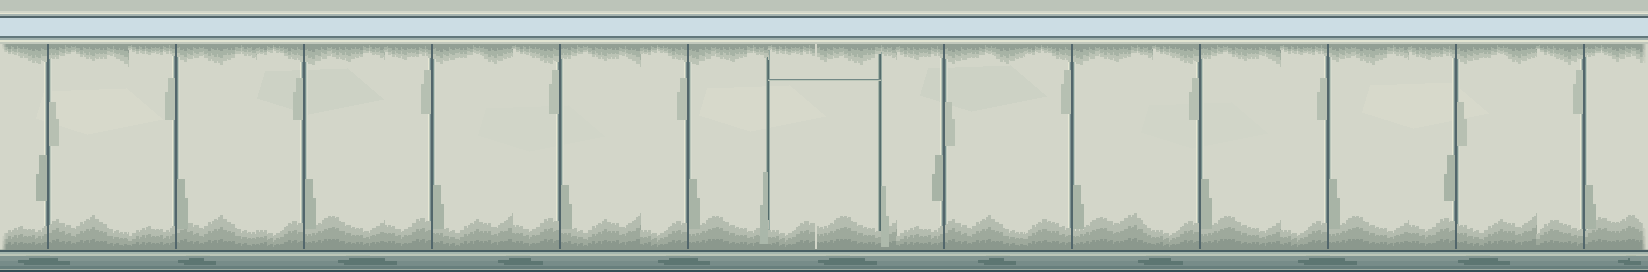
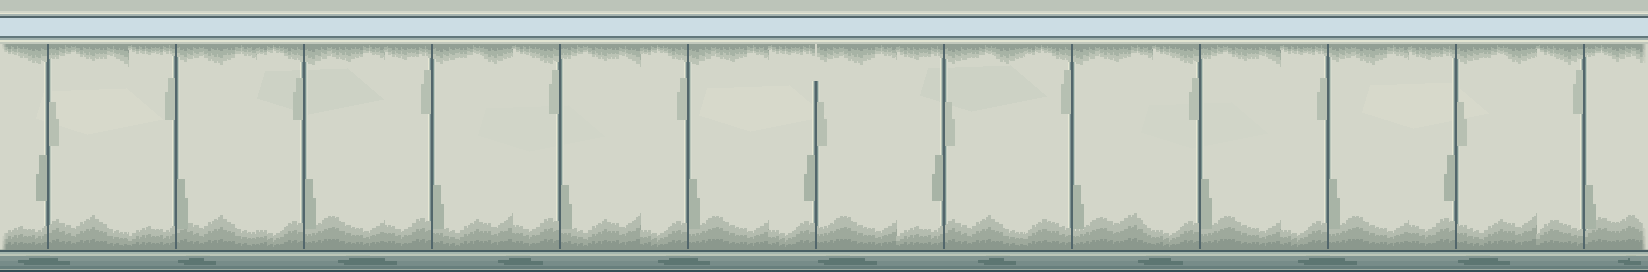
Align Room 1 door texture with existing wall surface

Changed region(s): [[0.4642, 0.2647, 0.557, 0.8235], [0.5261, 0.6765, 0.557, 0.8529]]

diff --git a/docs/art/experiments/room1_integrated_door_v3/preview.html b/docs/art/experiments/room1_integrated_door_v3/preview.html
@@ -6,9 +6,13 @@ body{margin:0;background:#111a1c;color:#dce5e2;font:16px/1.5 system-ui,sans-seri
 </style><main>
 <h1>Room 1 一体化主门 v3</h1>
 <p>同一 Godot 镜头和 1280 × 720 分辨率。关注门面与后墙的关系，以及小窗与门洞内侧细灯。当前为审查样本。</p>
-<section><h2>建筑分板：门洞原本就在墙体模块中</h2><div class="pair">
-<div class="card"><img src="evidence/before_portal_bay.png" alt="原后墙接缝穿过门楣中央"><b>之前：后墙等距接缝穿过门楣中央，门像后来切进去</b></div>
-<div class="card"><img src="evidence/idle_closed.png" alt="门洞接缝与门楣、两侧相接"><b>现在：墙面接缝在门洞两侧收束，并接入门楣</b></div>
+<section><h2>后墙分板：撤销门上方两条长缝</h2><div class="pair">
+<div class="card"><img src="evidence/before_ears_rework.png" alt="门两侧接缝延伸至天花板"><b>之前：门两侧另拉两条长缝，顶部像长出“耳朵”</b></div>
+<div class="card"><img src="evidence/idle_closed.png" alt="门位于原有宽面板内"><b>现在：沿用原墙分板，只清除门楣中央旧缝</b></div>
+</div></section>
+<section><h2>整扇门面：沿用 Room 1 现行墙面材质</h2><div class="pair">
+<div class="card"><img src="evidence/before_door_style.png" alt="原先独立绘制的门面"><b>之前：门面单独绘制，色阶、像素变化和原墙不一致</b></div>
+<div class="card"><img src="evidence/idle_closed.png" alt="使用原墙材质的门面"><b>现在：用 r6 墙面无缝区作底图，约 80 texel/m；只加窄密封边与小状态窗</b></div>
 </div></section>
 <section><h2>门缝与门底：修改前后</h2><div class="pair">
 <div class="card"><img src="evidence/before_seam_rework.png" alt="修改前关门"><b>修改前：黑色轮廓偏重，底部横向亮带像贴上去的墙裙</b></div>

diff --git a/docs/art/experiments/room1_integrated_door_v3/source/build_portal_wall.py b/docs/art/experiments/room1_integrated_door_v3/source/build_portal_wall.py
@@ -1,11 +1,11 @@
-"""Recompose the Room 1 rear wall around its existing central door opening.
+"""Place the existing Room 1 door in a wider, original rear-wall panel bay.
 
-The r6 mineral/age layers stay intact outside the door bay. Only the joint
-that ran through the door header is replaced by joints at the actual jambs
-and a shallow header-to-jamb construction seam. No room geometry moves.
+The r6 wall already has a 3.2 m panel span between joints around the door.
+Only the repetitive joint drawn through the small header is removed. The
+surrounding wall, lamp, lower guard and aged surface stay pixel-identical.
 """
 from pathlib import Path
-from PIL import Image, ImageDraw
+from PIL import Image, ImageChops
 
 ROOT = Path(__file__).resolve().parents[5]
 HERE = Path(__file__).resolve().parents[1]
@@ -15,65 +15,37 @@ OUT = ROOT / "assets/art/room1_integrated_door_v3/wall_rear_portal.png"
 LAYERS.mkdir(parents=True, exist_ok=True)
 OUT.parent.mkdir(parents=True, exist_ok=True)
 
-ORDER = ["base", "quiet_mineral_plane", "structure", "joints", "top_deposit",
-         "lower_accumulation", "joint_seal_film", "base_contact"]
-layers = {name: Image.open(SOURCE / f"rear_{name}.png").convert("RGBA") for name in ORDER}
-assert all(layer.size == (1648, 272) for layer in layers.values())
-
-# World mapping is 80 texels/m: x=(world_x-0.2)*80. The real wall opening is
-# x=9.8..11.2 m, so its jambs land at texels 768 and 880. The old repetitive
-# seam at 816 bisected the 1.4 m header and made the opening look cut later.
-opening_left, opening_right, obsolete_joint = 768, 880, 816
-joint = layers["joints"]
-film = layers["joint_seal_film"]
-for layer, start, end in ((joint, 812, 820), (film, 800, 832)):
-    ImageDraw.Draw(layer).rectangle((start, 44, end, 248), fill=(0, 0, 0, 0))
-
-dj = ImageDraw.Draw(joint)
-for center in (opening_left, opening_right):
-    # Half-width structural joint at the jamb, joined to the existing wall
-    # panel rhythm without a second applied border around the moving leaf.
-    for dx, color in ((-2, "#A5B4A8"), (-1, "#647C7A"),
-                      (0, "#536B6B"), (1, "#94A8A0")):
-        dj.line((center + dx, 44, center + dx, 248), fill=color)
-
-# The header bottom is at world y=2.4 m, v=(1-2.4/3.4)*272 ≈ 80. This shallow
-# horizontal construction seam physically meets both jambs, instead of
-# running a vertical panel joint through the middle of the door.
-dj.line((opening_left, 79, opening_right, 79), fill="#738986", width=1)
-dj.line((opening_left, 80, opening_right, 80), fill="#BBC6B8", width=1)
-
-df = ImageDraw.Draw(film)
-# Deposits remain attached to the new jamb seals and grow toward the floor.
-# The two sides differ to avoid mirrored grime or detached dark patches.
-df.polygon([(opening_left-1, 172), (opening_left-5, 172),
-            (opening_left-5, 205), (opening_left-8, 205),
-            (opening_left-8, 243), (opening_left-1, 243)], fill="#AAB7AA")
-df.polygon([(opening_right+1, 186), (opening_right+5, 186),
-            (opening_right+5, 216), (opening_right+8, 216),
-            (opening_right+8, 246), (opening_right+1, 246)], fill="#ADB9AB")
-
-result = Image.new("RGBA", (1648, 272), (0, 0, 0, 0))
-for name in ORDER:
-    layers[name].save(LAYERS / f"{name}.png")
-    result = Image.alpha_composite(result, layers[name])
-# Use the exact running r6 raster as the base. Re-compositing every pixel in
-# Pillow changes a few far corner pixels by 1 RGB step versus the Aseprite
-# readback, which would risk the previously fixed four-wall corner continuity.
 baseline = Image.open(ROOT / "assets/art/room1_seam_contact_r6/wall_rear.png").convert("RGB")
-candidate = result.convert("RGB")
+assert baseline.size == (1648, 272)
+
+# Reconstruct the original mineral surface without its seam/film layers. The
+# nearest remaining original joints are x=688 and x=944, making a 3.2 m-wide
+# construction bay with the 1.4 m personnel door near its center. No new
+# jamb-to-ceiling lines or foreign colors are painted.
+plain_layers = ["base", "quiet_mineral_plane", "structure",
+                "top_deposit", "lower_accumulation", "base_contact"]
+plain = Image.new("RGBA", baseline.size, (0, 0, 0, 0))
+for name in plain_layers:
+    layer = Image.open(SOURCE / f"rear_{name}.png").convert("RGBA")
+    assert layer.size == baseline.size
+    plain = Image.alpha_composite(plain, layer)
+plain = plain.convert("RGB")
+
+# x=816 was a regular panel seam through the separate header. The header
+# occupies world y=2.4..3.4 m (texture rows 0..80). Restore only that patch;
+# the door opening below it has no front wall face to repaint.
 patch = Image.new("RGBA", baseline.size, (0, 0, 0, 0))
-bp, cp, pp = baseline.load(), candidate.load(), patch.load()
-for y in range(44, 249):
-    for x in range(752, 897):
-        if cp[x, y] != bp[x, y]:
-            pp[x, y] = (*cp[x, y], 255)
+old, clear, overlay = baseline.load(), plain.load(), patch.load()
+for y in range(44, 81):
+    for x in range(799, 834):
+        if old[x, y] != clear[x, y]:
+            overlay[x, y] = (*clear[x, y], 255)
 finished = Image.alpha_composite(baseline.convert("RGBA"), patch).convert("RGB")
-assert finished.crop((0, 0, 752, 272)).tobytes() == baseline.crop((0, 0, 752, 272)).tobytes()
-assert finished.crop((897, 0, 1648, 272)).tobytes() == baseline.crop((897, 0, 1648, 272)).tobytes()
-assert finished.crop((0, 0, 1648, 44)).tobytes() == baseline.crop((0, 0, 1648, 44)).tobytes()
-assert finished.crop((0, 249, 1648, 272)).tobytes() == baseline.crop((0, 249, 1648, 272)).tobytes()
+diff_box = ImageChops.difference(baseline, finished).getbbox()
+assert diff_box and diff_box[0] >= 799 and diff_box[2] <= 834
+assert diff_box[1] >= 44 and diff_box[3] <= 81
+
 baseline.convert("RGBA").save(LAYERS / "baseline_rear.png")
 patch.save(LAYERS / "portal_bay_overlay.png")
 finished.save(OUT)
-print("PORTAL_WALL_READY", OUT, "opening_px", opening_left, opening_right)
+print("DOOR_BAY_READY", OUT, "original_seam_x", 816, "changed", diff_box)

diff --git a/docs/art/experiments/room1_integrated_door_v3/source/build_pixel_layers.py b/docs/art/experiments/room1_integrated_door_v3/source/build_pixel_layers.py
@@ -1,68 +1,56 @@
-"""Paint the Room 1 door review surface in addressable pixel layers.
+"""Make the door face from Room 1's actual approved r6 mineral pixel surface.
 
-The rejected free-form PixelLab swatch is intentionally not an input. Geometry
-and the interactive light states stay separate from this opaque color map.
+The 112x184 canvas gives about 80 texels per metre in both directions, the
+same physical density as the walls. Only door-specific seal/indicator marks
+are added; all broad mineral variation and low-edge aging come from r6.
 """
 from pathlib import Path
 from PIL import Image, ImageDraw
 
 HERE = Path(__file__).resolve().parents[1]
-LAYERS = HERE / "source" / "layers"
-OUT = HERE.parents[3] / "assets" / "art" / "room1_integrated_door_v3"
+PROJECT = HERE.parents[3]
+LAYERS = HERE / "source/layers"
+OUT = PROJECT / "assets/art/room1_integrated_door_v3"
 LAYERS.mkdir(parents=True, exist_ok=True)
 OUT.mkdir(parents=True, exist_ok=True)
-SIZE = (128, 256)
 
+SIZE = (112, 184)
+WALL_SOURCE = PROJECT / "assets/art/room1_seam_contact_r6/wall_rear.png"
+wall = Image.open(WALL_SOURCE).convert("RGBA")
+assert wall.size == (1648, 272)
+# This seam-free interval is one original wall bay. It carries the same broad
+# mineral planes and the same floor-connected age contour as the room walls.
+base = wall.crop((956, 65, 1068, 249))
+assert base.size == SIZE
 
-def blank():
-    return Image.new("RGBA", SIZE, (0, 0, 0, 0))
-
-
-base = Image.new("RGBA", SIZE, "#C2CCC5")
-d = ImageDraw.Draw(base)
-d.rectangle((3, 3, 124, 125), fill="#C8D0C9")
-d.rectangle((4, 126, 123, 255), fill="#C3CDC6")
-# The wall's skirting stops at the opening. The moving leaf has a continuous
-# face and only a mild, low-level material shift at its floor contact.
-d.rectangle((4, 222, 123, 255), fill="#BDC9C2")
-d.rectangle((4, 247, 123, 255), fill="#B8C5BE")
-# Broad, stepped material differences read as manufactured finish, not stains.
-d.polygon([(12, 26), (49, 26), (49, 29), (83, 29), (83, 85),
-           (66, 85), (66, 90), (12, 90)], fill="#CAD3CB")
-d.polygon([(87, 105), (114, 105), (114, 110), (120, 110),
-           (120, 195), (96, 195), (96, 189), (87, 189)], fill="#BBC8C1")
-
-structure = blank()
+structure = Image.new("RGBA", SIZE, (0, 0, 0, 0))
 d = ImageDraw.Draw(structure)
-# The narrow moving-leaf seal is carried mainly by model depth. Its painted
-# border is a near-tone transition, without a second black outline.
-d.rectangle((0, 0, 0, 255), fill=(121, 143, 136, 255))
-d.rectangle((127, 0, 127, 255), fill=(121, 143, 136, 255))
-# The physical status window is a small, flush inset. Color state is runtime.
-d.rectangle((54, 86, 74, 99), fill=(130, 151, 146, 255))
-d.rectangle((56, 88, 72, 97), fill=(47, 65, 69, 255))
-d.line((56, 88, 72, 88), fill=(105, 130, 129, 255), width=1)
-d.line((56, 97, 72, 97), fill=(30, 48, 54, 255), width=1)
+# A moving leaf needs a narrow seal, but no heavy outer frame or extra panels.
+d.line((0, 0, 0, 183), fill=(105, 129, 124, 255), width=1)
+d.line((111, 0, 111, 183), fill=(105, 129, 124, 255), width=1)
+# The physically separate eye-height status quad sits inside this small inset.
+d.rectangle((49, 62, 63, 72), fill=(131, 153, 145, 255))
+d.rectangle((51, 64, 61, 70), fill=(47, 65, 69, 255))
+d.line((51, 64, 61, 64), fill=(105, 130, 129, 255), width=1)
+d.line((51, 70, 61, 70), fill=(30, 48, 54, 255), width=1)
 
-age = blank()
+age = Image.new("RGBA", SIZE, (0, 0, 0, 0))
 d = ImageDraw.Draw(age)
-# Continuous edge deposits collect where the leaf rubs its seal; they grow
-# toward the floor, then taper inward. No isolated stain blocks at mid-height.
-d.polygon([(1, 190), (2, 190), (2, 212), (3, 212), (3, 230),
-           (5, 230), (5, 246), (9, 246), (9, 253), (1, 253)],
-          fill=(101, 125, 120, 110))
-d.polygon([(126, 203), (125, 203), (125, 226), (123, 226),
-           (123, 241), (119, 241), (119, 250), (126, 250)],
-          fill=(100, 123, 118, 92))
-d.line((11, 253, 50, 253), fill=(90, 111, 109, 65), width=1)
-d.line((77, 253, 119, 253), fill=(90, 111, 109, 58), width=1)
+# A sliding seal adds continuous operation wear toward its lower contacts.
+# The source wall already supplies the main broad aging; do not add spots.
+d.polygon([(1, 118), (2, 118), (2, 145), (3, 145),
+           (3, 166), (4, 166), (4, 183), (1, 183)],
+          fill=(112, 136, 129, 86))
+d.polygon([(110, 138), (109, 138), (109, 158), (108, 158),
+           (108, 176), (107, 176), (107, 183), (110, 183)],
+          fill=(111, 134, 127, 70))
 
 named = [("mineral_composite_base", base),
          ("seal_and_status_window", structure),
          ("edge_and_contact_age", age)]
-image = blank()
-for label, layer in named:
-    layer.save(LAYERS / (label + ".png"))
-    image = Image.alpha_composite(image, layer)
-image.save(OUT / "door_front.png")
-print("DOOR_PIXEL_LAYERS_READY", SIZE, len(named))
+result = Image.new("RGBA", SIZE, (0, 0, 0, 0))
+for name, layer in named:
+    layer.save(LAYERS / f"{name}.png")
+    result = Image.alpha_composite(result, layer)
+result.save(OUT / "door_front.png")  # provisional; Aseprite writes final blend
+print("DOOR_PIXEL_LAYERS_FROM_R6", SIZE, "wall_crop=(956,65,1068,249)")

diff --git a/docs/art/experiments/room1_integrated_door_v3/source/build_door.py b/docs/art/experiments/room1_integrated_door_v3/source/build_door.py
@@ -17,7 +17,7 @@ bpy.ops.object.delete(use_global=False)
 WIDTH, HEIGHT, DEPTH = 1.37, 2.30, 0.085
 
 image = bpy.data.images.load(str(ART / "door_front.png"), check_existing=False)
-image.name = "DoorFront_128x256_original_pixels"
+image.name = "DoorFront_80texels_per_metre_original_pixels"
 image.filepath = str(ART / "door_front.png")
 image.pack()
 

diff --git a/docs/art/experiments/room1_integrated_door_v3/README.md b/docs/art/experiments/room1_integrated_door_v3/README.md
@@ -4,10 +4,10 @@
 
 ## 本轮调整
 
-- 关闭状态仍是原有尺寸的单扇侧滑门，门面使用接近后墙的冷灰绿色和由上至下的应急照明明暗。关门时隐藏未点亮的门框灯槽，门缝只保留窄的运动密封边；门叶不延续墙脚保护带，删除门底的假亮带。旧化连续附着于门叶下部密封边和地面接触线，删除中高处的孤立污斑。
+- 关闭状态仍是原有尺寸的单扇侧滑门。门面直接取自 Room 1 现行 r6 墙面材质的一块无接缝区域，保持相同的矿物色阶、像素密度、大面变化和下缘沉积轮廓；只增加滑动密封边与小状态窗。不再另画一套平滑渐变或随机污斑。关门时隐藏未点亮的门框灯槽；门叶不延续墙脚保护带。
 - 独立的四边门洞内侧细灯：待机暗；单人芯片认证成功、允许通行期间持续发绿光。当前 Room 1 无第二通行者，不出现红色门框。猫眼高度小状态窗分别显示暗、黄闪、绿、红。
 - 沿用现有 1.37 m × 2.30 m 门叶、约 1.4 m 人员门洞、单扇侧滑运动；门板和碰撞体同步。不新增壁挂认证器、扫描柱或外露把手。
-- 后墙原有约 20 cm 厚、门叶已在墙体深度内；但等距接缝有一条穿过门楣中央，让门像事后切洞。本轮把这条接缝改为与现有 **x=9.8–11.2 m** 门洞两侧相接的施工分板，并在现有 **y=2.4 m** 门楣下缘接上一条浅的结构收边。门洞周边现在属于后墙自己的构造节奏，没有额外贴一圈装饰门框，也未改变墙体尺寸、门洞或 UV2。
+- 后墙原有约 20 cm 厚，门叶已在墙体深度内。此前尝试从门洞两侧拉接缝至天花板，形成了像“耳朵”的竖线，已撤销。现在沿用 r6 原墙全部分板节奏，门位于原有两条接缝之间的宽面板内；仅清除穿过门楣中央的旧接缝。没有增加门洞装饰框，也未改变墙体尺寸、门洞或 UV2。
 
 ## 可编辑源文件与导入
 
@@ -15,7 +15,7 @@
 | --- | --- |
 | Blender 主文件 | [`room1_integrated_door_v3.blend`](room1_integrated_door_v3.blend) |
 | Blender 重建脚本 | [`source/build_door.py`](source/build_door.py) |
-| 128 × 256 像素图层源 | [`editable/door_front_v3.aseprite`](editable/door_front_v3.aseprite) |
+| 112 × 184 像素图层源 | [`editable/door_front_v3.aseprite`](editable/door_front_v3.aseprite) |
 | 后墙门洞模块图层源 | [`editable/wall_rear_portal.aseprite`](editable/wall_rear_portal.aseprite) |
 | 图层生成脚本 | [`source/build_pixel_layers.py`](source/build_pixel_layers.py) |
 | Godot 使用的像素贴图 | [`../../../../assets/art/room1_integrated_door_v3/door_front.png`](../../../../assets/art/room1_integrated_door_v3/door_front.png) |
@@ -23,13 +23,13 @@
 | Godot 使用的 GLB | [`../../../../assets/art/room1_integrated_door_v3/room1_integrated_door_v3.glb`](../../../../assets/art/room1_integrated_door_v3/room1_integrated_door_v3.glb) |
 | Godot 审图场景 | [`../../../../scenes/dev/room1_integrated_door_v3.tscn`](../../../../scenes/dev/room1_integrated_door_v3.tscn) |
 
-Godot 打开审图场景即可看自动感应、门板侧滑及由 Room 1 走到 4F 走廊。导入时保留 GLB、PNG、脚本和场景的仓库相对路径；GLB 内也打包了该贴图。Aseprite 三图层输出与运行时 PNG 的逐像素回读一致。门面使用 UV0 和最近邻采样，灯语是 Godot 运行时材质，不烘进像素贴图。
+Godot 打开审图场景即可看自动感应、门板侧滑及由 Room 1 走到 4F 走廊。导入时保留 GLB、PNG、脚本和场景的仓库相对路径；GLB 内也打包了该贴图。Aseprite 三图层输出与运行时 PNG 的逐像素回读一致。门面约 80 texel/m，与原墙相同；基础图取自 r6 后墙贴图的 x=956–1068、y=65–249 无接缝区域。门面使用 UV0 和最近邻采样，灯语是 Godot 运行时材质，不烘进像素贴图。
 
-后墙新图以既有 r6 最终 PNG 为底图，只在贴图 x=760–888、y=44–248 的门洞周边覆盖局部重排，**其余像素、灯带与墙脚逐像素保持原样**。门洞两侧真实 x=9.8/11.2 m 对应 80 texel/m 下的 x=768/880；旧中心缝 x=816 被清掉，门楣下缘接缝落在 y≈80。该图 Aseprite 重开导出与运行时 PNG 逐像素一致；新接缝旧化只连接实际门侧密封边。
+后墙新图以既有 r6 最终 PNG 为底图，仅清除门楣正中旧缝 x=812–819、y=44–80；**其余像素、分板接缝、灯带与墙脚逐像素保持原样**。原墙接缝 x=688、944 构成约 3.2 m 宽的门所在分板。该图 Aseprite 重开导出与运行时 PNG 逐像素一致。
 
 ## 审图与验证
 
-[打开五状态对比页](preview.html)：相机和分辨率均为 Godot 实拍 1280 × 720。保留门洞施工分板修改前及门缝修改前的同机位截图用于对照。
+[打开五状态对比页](preview.html)：相机和分辨率均为 Godot 实拍 1280 × 720。保留“耳朵”接缝、旧门面及门缝修改前的同机位截图用于对照。
 
 [`runtime_validation.json`](runtime_validation.json) 的 Godot headless 检查结果为 `PASS`：三段后墙均使用新门洞模块图、黄闪、四段门框、授权开门、碰撞同步、角色走出门洞、离开后复位及拒绝时仅小窗发红。此检查只覆盖一名角色，不证明尾随防护、安全避夹或停电解锁。
 
